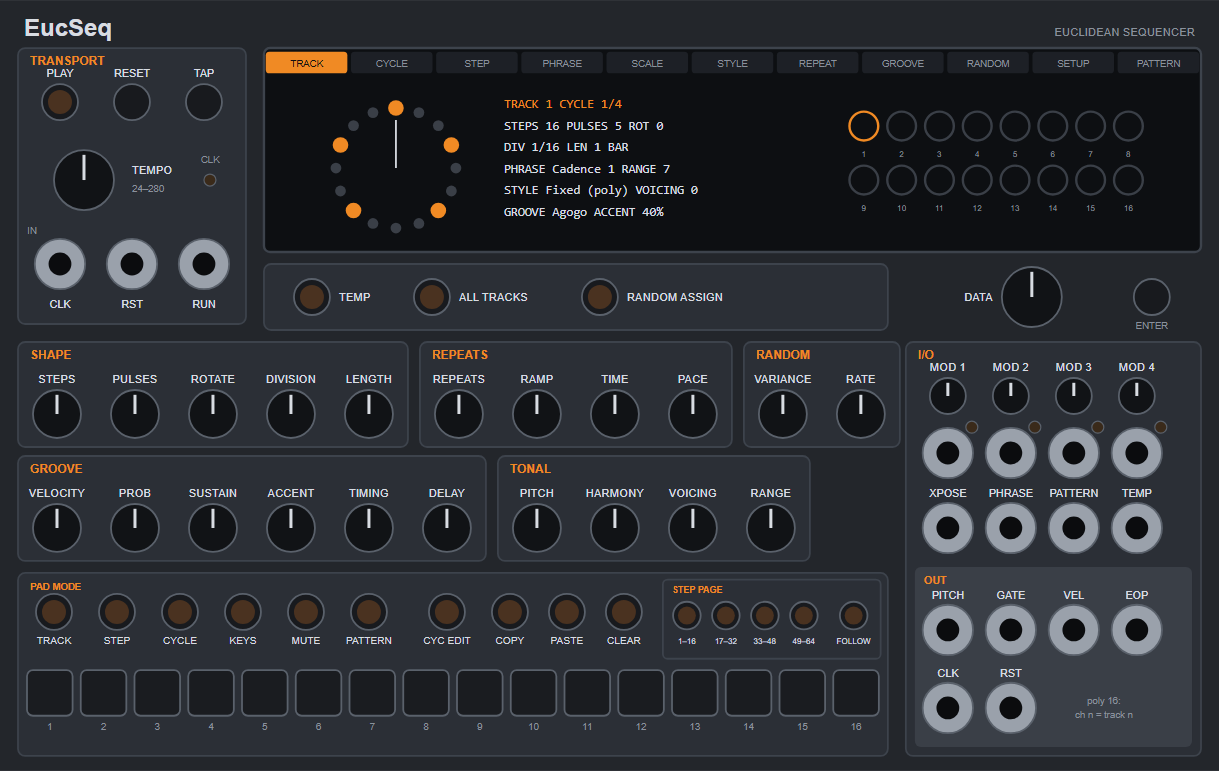
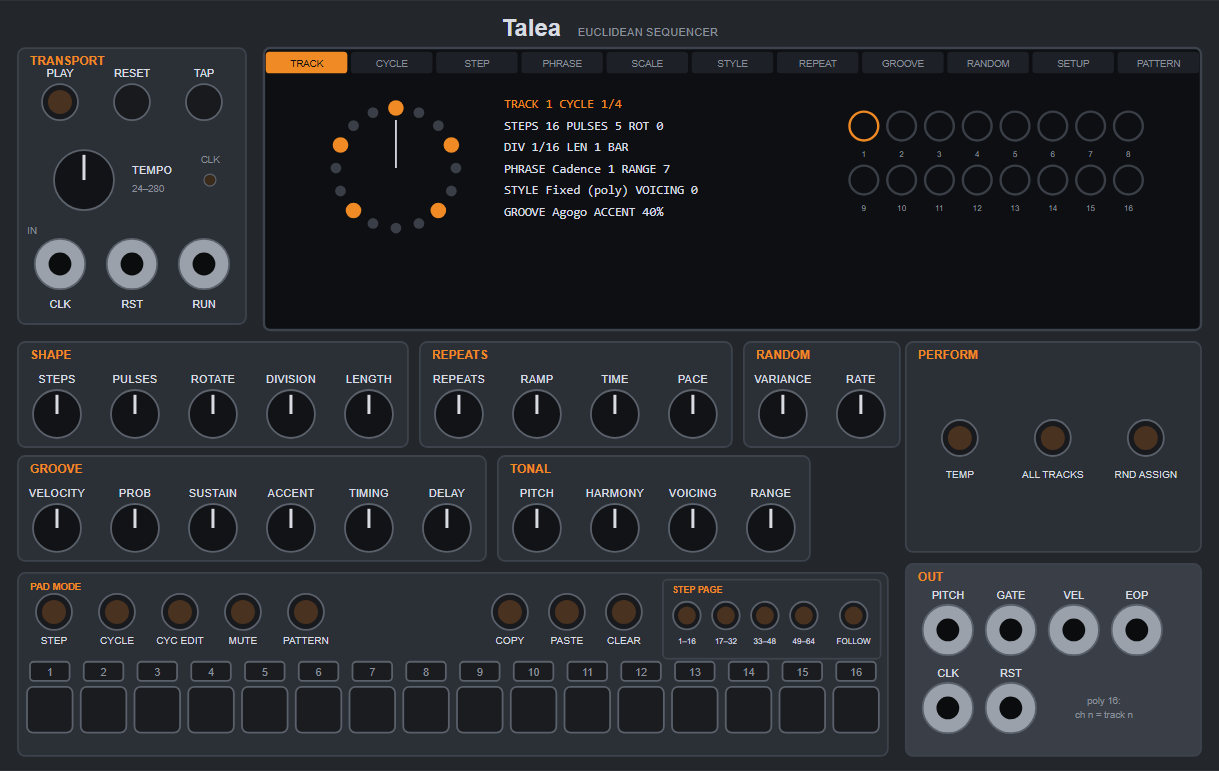
Centre the panel title using measured Nunito Bold metrics
TITLE_W was still the glyph width of the old title. Measured "Talea" at
4.0 in Nunito Bold (the font PanelLabels draws with) from the TTF's hmtx
table: 9.73, not the 11.10 that was estimated. The method reproduces the
generator's existing constants exactly (13.820 for the old title against
13.82, 23.287 for the subtitle against 23.29), so the title block now
centres on the panel midpoint.

Regenerates the panel SVGs, the layout headers and the preview PNGs. The
PNGs are not produced by gen_panel.py, so they were still the pre-rename
renders; re-rendered from the current SVGs at the same 1219x771.

diff --git a/tools/gen_panel.py b/tools/gen_panel.py
@@ -146,9 +146,7 @@ def track_button(spec_id, n, x, y):
 art.append(f'<rect x="0" y="0" width="{W:.2f}" height="{H}" fill="{BG}"/>')
 # Title + subtitle centred as one block. Widths are measured in Rack's fonts (Nunito Bold,
 # drawn 5% larger, and DejaVu Sans), since PanelLabels draws them, not the SVG.
-# NOTE: TITLE_W is an estimate for "Talea" and has not been re-measured since the rename
-# from the old title. Re-measure in Rack and correct it if the title block looks off-centre.
-TITLE_W, SUB_W, TITLE_GAP = 11.10 * 1.05, 23.29, 2.5
+TITLE_W, SUB_W, TITLE_GAP = 9.73 * 1.05, 23.29, 2.5
 title_x = W / 2 - (TITLE_W + TITLE_GAP + SUB_W) / 2
 text(title_x, 6.0, "Talea", size=4.0, color=TEXT, anchor="start", weight="bold")
 text(title_x + TITLE_W + TITLE_GAP, 6.0, "EUCLIDEAN SEQUENCER", size=1.9, color=DIM, anchor="start")

diff --git a/src/rack/PanelLayout.hpp b/src/rack/PanelLayout.hpp
@@ -82,8 +82,8 @@ constexpr Pos TRACK_SELECT_LIGHT[16] = {{8.30f, 111.90f}, {17.26f, 111.90f}, {26
 
 // align: 0 = left, 1 = centre, 2 = right; y is the text baseline
 constexpr Label kLabels[] = {
-    {81.45f, 6.00f, 4.0f, "Talea", {216, 220, 226}, 0, true},
-    {98.46f, 6.00f, 1.9f, "EUCLIDEAN SEQUENCER", {138, 145, 156}, 0, false},
+    {83.60f, 6.00f, 4.0f, "Talea", {216, 220, 226}, 0, true},
+    {96.31f, 6.00f, 1.9f, "EUCLIDEAN SEQUENCER", {138, 145, 156}, 0, false},
     {5.00f, 10.90f, 2.0f, "TRANSPORT", {240, 138, 36}, 0, true},
     {10.00f, 12.80f, 1.8f, "PLAY", {216, 220, 226}, 1, false},
     {22.00f, 12.80f, 1.8f, "RESET", {216, 220, 226}, 1, false},
